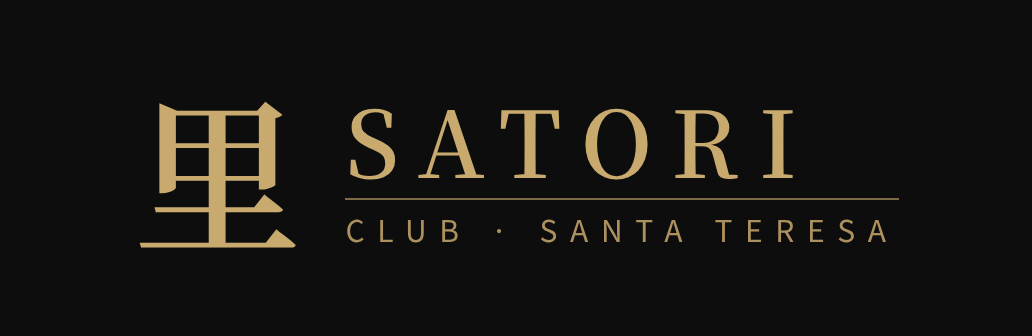
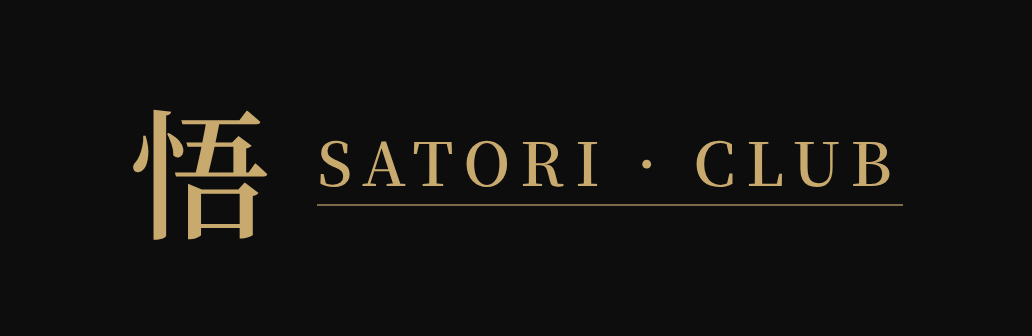
docs(pase): maqueta v2 con 悟 y franja SATORI · CLUB (el daruma no está en el repo); sigue apagado hasta el OK
Claude-Session: https://claude.ai/code/session_012WttwDN2JPYLqpCXCgWFwh

diff --git a/docs/club-satori/PROPUESTA-diseno-pase.md b/docs/club-satori/PROPUESTA-diseno-pase.md
@@ -1,14 +1,18 @@
 # Propuesta · diseño del pase de Google Wallet (08-nov-2026) — **la aprueba Ismael**
 
-> **EN ESPERA (Ismael, 08-nov): el kanji 里 («pueblo») NO va.** Ismael confirma cuál (悟 o el del logo real) y si la franja
-> lleva Nosara. Hasta entonces `WALLET_DISENO` no se carga y el pase sale solo con el fondo `#0d0d0d`.
+> **MAQUETA v2 (08-nov), APAGADA hasta el OK de Ismael.** Ismael pidió el daruma de la página web de Satori; **no está
+> en el repo ni en club-web** (solo el ícono 祭 de la app y esta propuesta). Por eso, como indicó, va el kanji **悟**
+> («satori») en el mismo estilo. Franja: **«SATORI · CLUB»** (sin local). Si aparece el archivo del daruma, se cambia
+> solo el logo y la franja, con este mismo script. Hasta el OK, `WALLET_DISENO` no se carga y el pase sale solo con el
+> fondo `#0d0d0d`.
 
 Sale de la identidad que ya usan la app y club-web:
 - **Color de fondo:** tinta `#0d0d0d`, el negro del encabezado de club-web y de la app.
 - **Oro:** `#c8a96e` (`--gold` de club-web), solo sobre la tinta, como en la web.
-- **Logo:** el kanji **里** de club-web, en Noto Serif JP (la serif de la app), oro sobre un círculo negro con un filete
-  dorado. 660×660, como pide Google.
-- **Franja superior** (`heroImage`, 1032×336): 里 + «SATORI», con «CLUB · SANTA TERESA» debajo.
+- **Logo:** el kanji **悟** en Noto Serif JP (la serif de la app), oro sobre un círculo negro con un filete dorado.
+  660×660, como pide Google.
+- **Franja** (`heroImage`, 1032×336): 悟 + «SATORI · CLUB» con un filete dorado debajo, con margen a los lados por si
+  Google recorta.
 
 ![Maqueta del pase (datos ficticios)](img/pase-propuesta.png)
 
